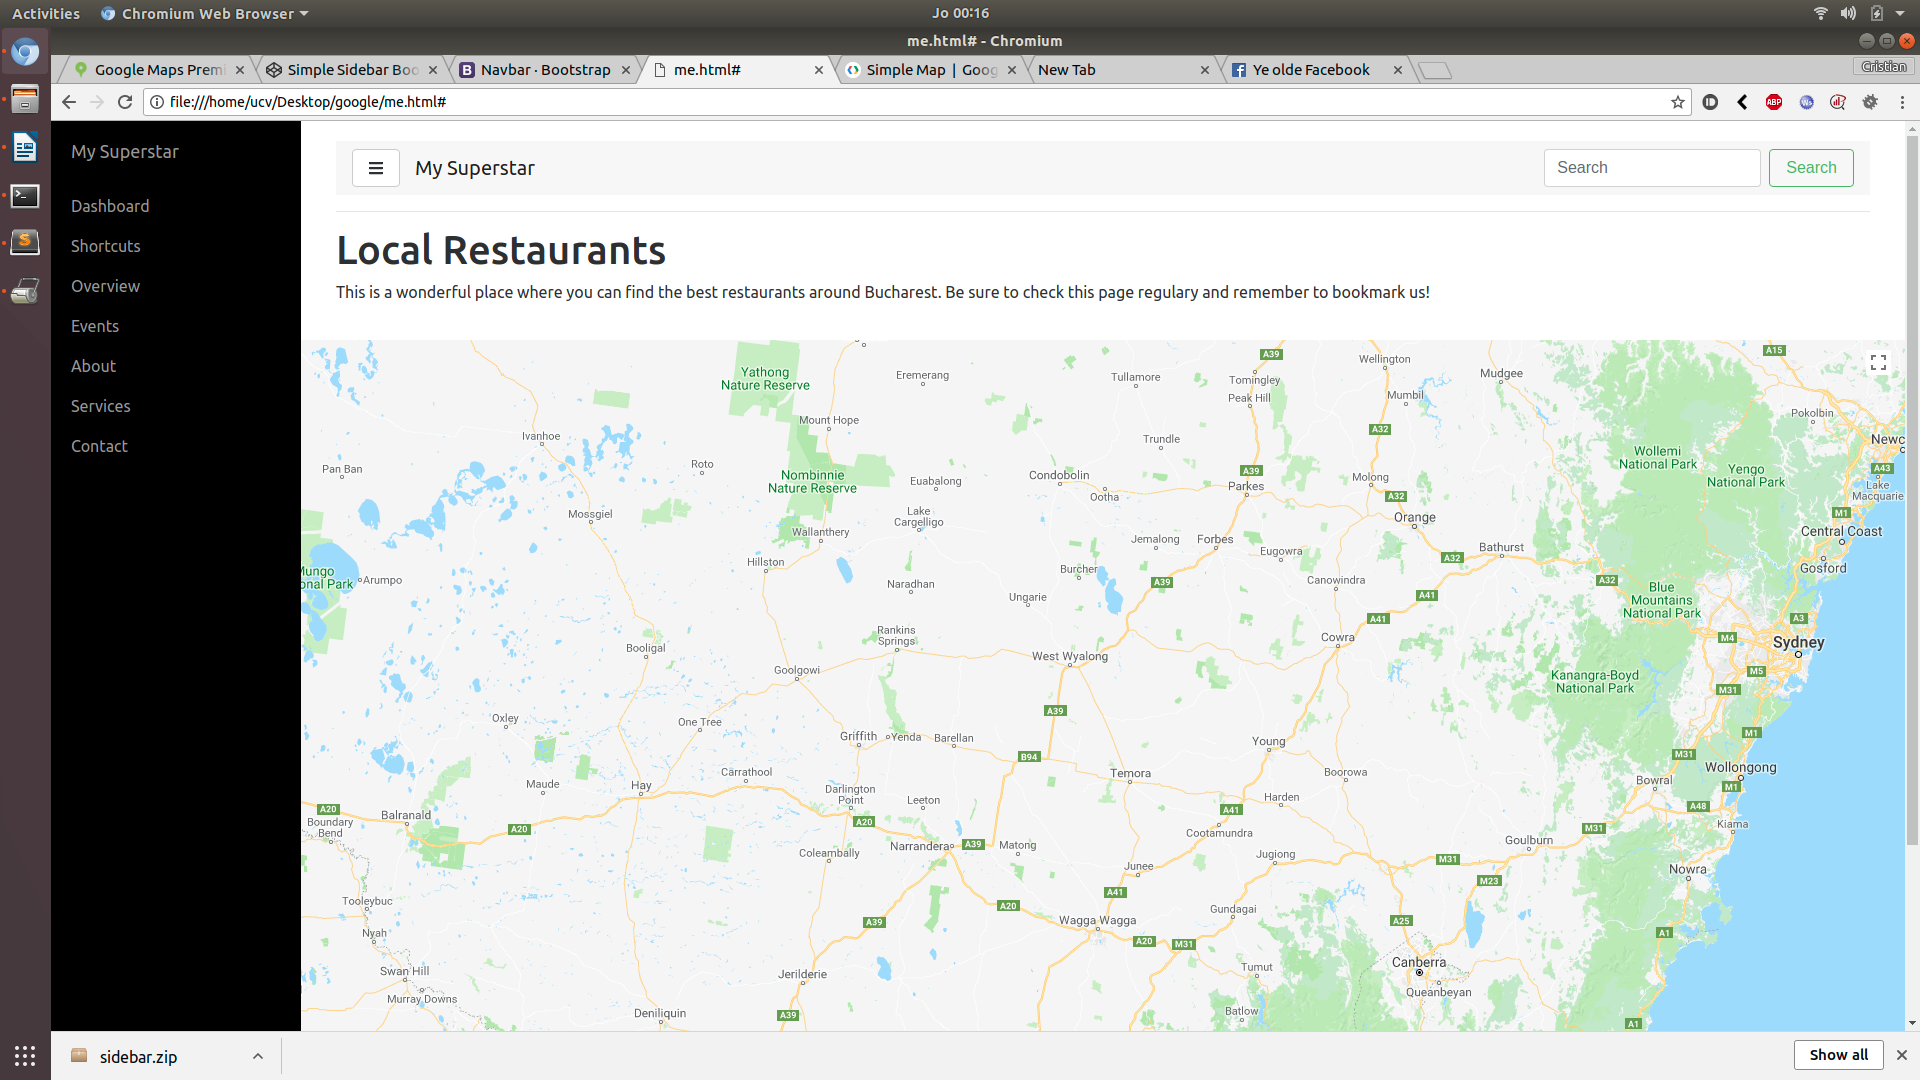
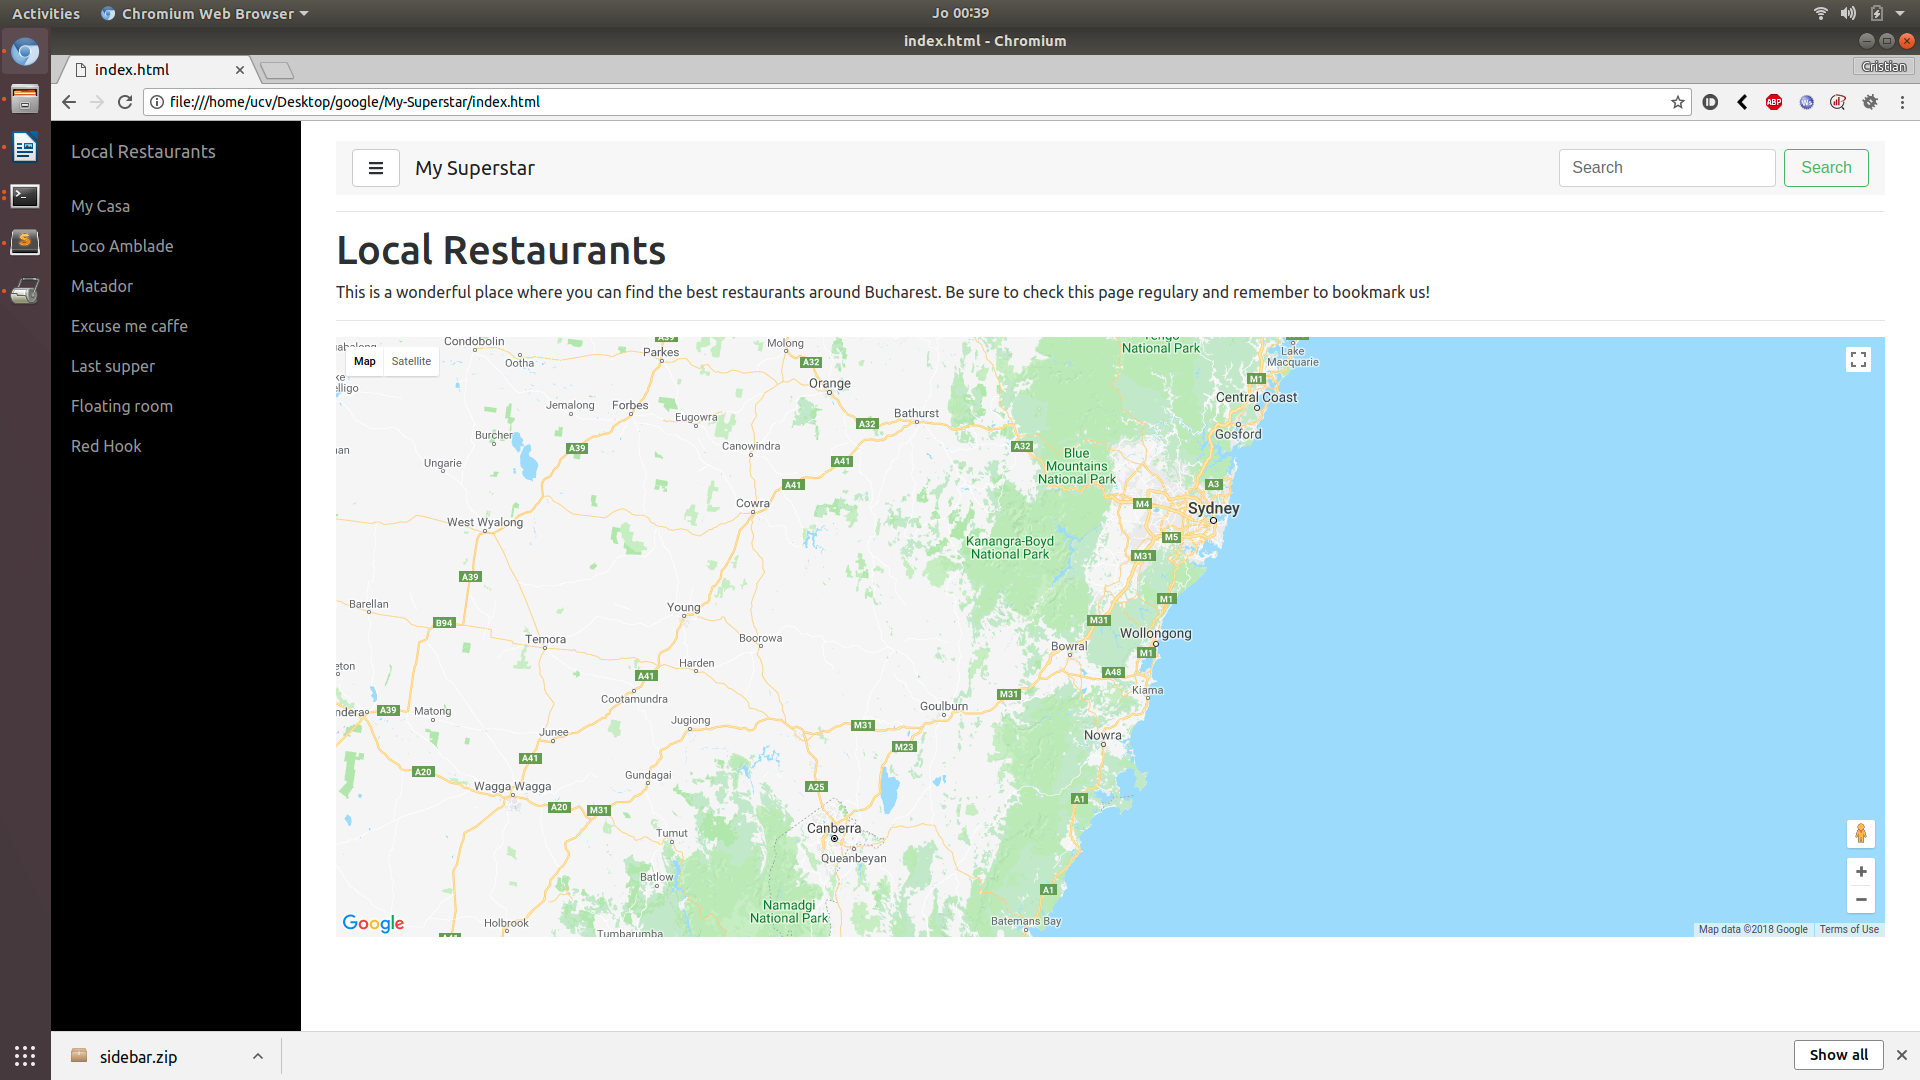
Changed some resources and moved the map into a container

diff --git a/index.html b/index.html
@@ -139,7 +139,7 @@
 		/* Always set the map height explicitly to define the size of the div
 	       * element that contains the map. */
 	      #map {
-	        height: 100%;
+	        min-height: 600px
 	      }
 	      /* Optional: Makes the sample page fill the window. */
 	      html, body {
@@ -159,29 +159,29 @@
             <ul class="sidebar-nav">
                 <li class="sidebar-brand">
                     <a href="#">
-                        My Superstar
+                        Local Restaurants
                     </a>
                 </li>
                 <li>
-                    <a href="#">Dashboard</a>
+                    <a href="#">My Casa</a>
                 </li>
                 <li>
-                    <a href="#">Shortcuts</a>
+                    <a href="#">Loco Amblade</a>
                 </li>
                 <li>
-                    <a href="#">Overview</a>
+                    <a href="#">Matador</a>
                 </li>
                 <li>
-                    <a href="#">Events</a>
+                    <a href="#">Excuse me caffe</a>
                 </li>
                 <li>
-                    <a href="#">About</a>
+                    <a href="#">Last supper</a>
                 </li>
                 <li>
-                    <a href="#">Services</a>
+                    <a href="#">Floating room</a>
                 </li>
                 <li>
-                    <a href="#">Contact</a>
+                    <a href="#">Red Hook</a>
                 </li>
             </ul>
         </div>
@@ -217,13 +217,17 @@
 
                 <h1>Local Restaurants</h1>
                 <p>This is a wonderful place where you can find the best restaurants around Bucharest. Be sure to check this page regulary and remember to bookmark us!</p>
+            
+                <hr>
+
+			    
+                <div id="map"></div>
             </div>
         </div>
         <!-- /#page-content-wrapper -->
 
     </div>
 
-    <div id="map"></div>
     <script>
       var map;
       function initMap() {
